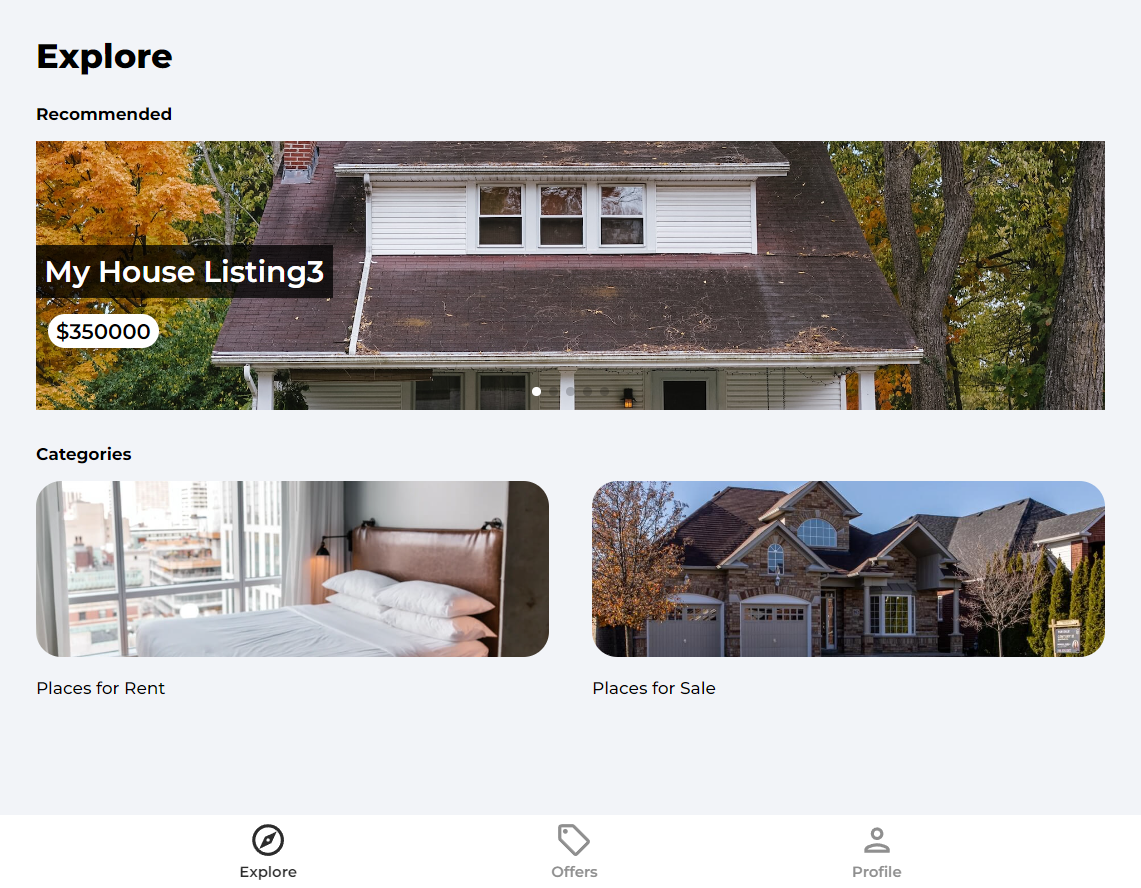
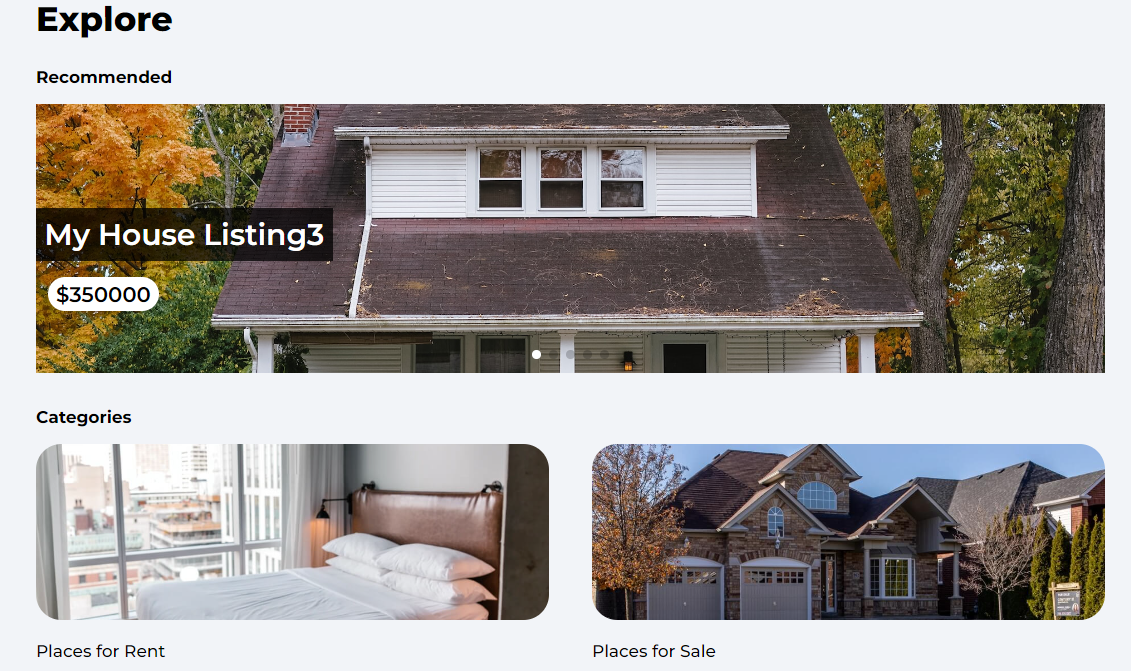
pro1 img

diff --git a/src/data/WorkCardData.js b/src/data/WorkCardData.js
@@ -6,7 +6,7 @@ const ProjectCardData = [
     {
         imgsrc: pro1,
         title: "House Marketplace",
-        text: "Find and list houses for sale or for rent. This is a React / Firebase v9 project from the React",
+        text: "Find and list houses for sale or for rent. This is a React / Firebase v9 project with Map Geocoding Api and Google Oath.",
         view: "https://house-marketplace-rho-pink.vercel.app/",
         source: "https://github.com/Muratozbk/house-marketplace"
     },

diff --git a/src/components/Work.jsx b/src/components/Work.jsx
@@ -1,5 +1,5 @@
 import WorkCard from './WorkCard';
-import WorkCardData from './WorkCardData'
+import WorkCardData from '../data/WorkCardData'
 import React from 'react';
 
 const Work = () => {

diff --git a/src/components/WorkCardStyles.css b/src/components/WorkCardStyles.css
@@ -19,6 +19,7 @@
 
 .project-card img {
     width: 100%;
+    object-fit: contain;
 }
 
 .project-title {
